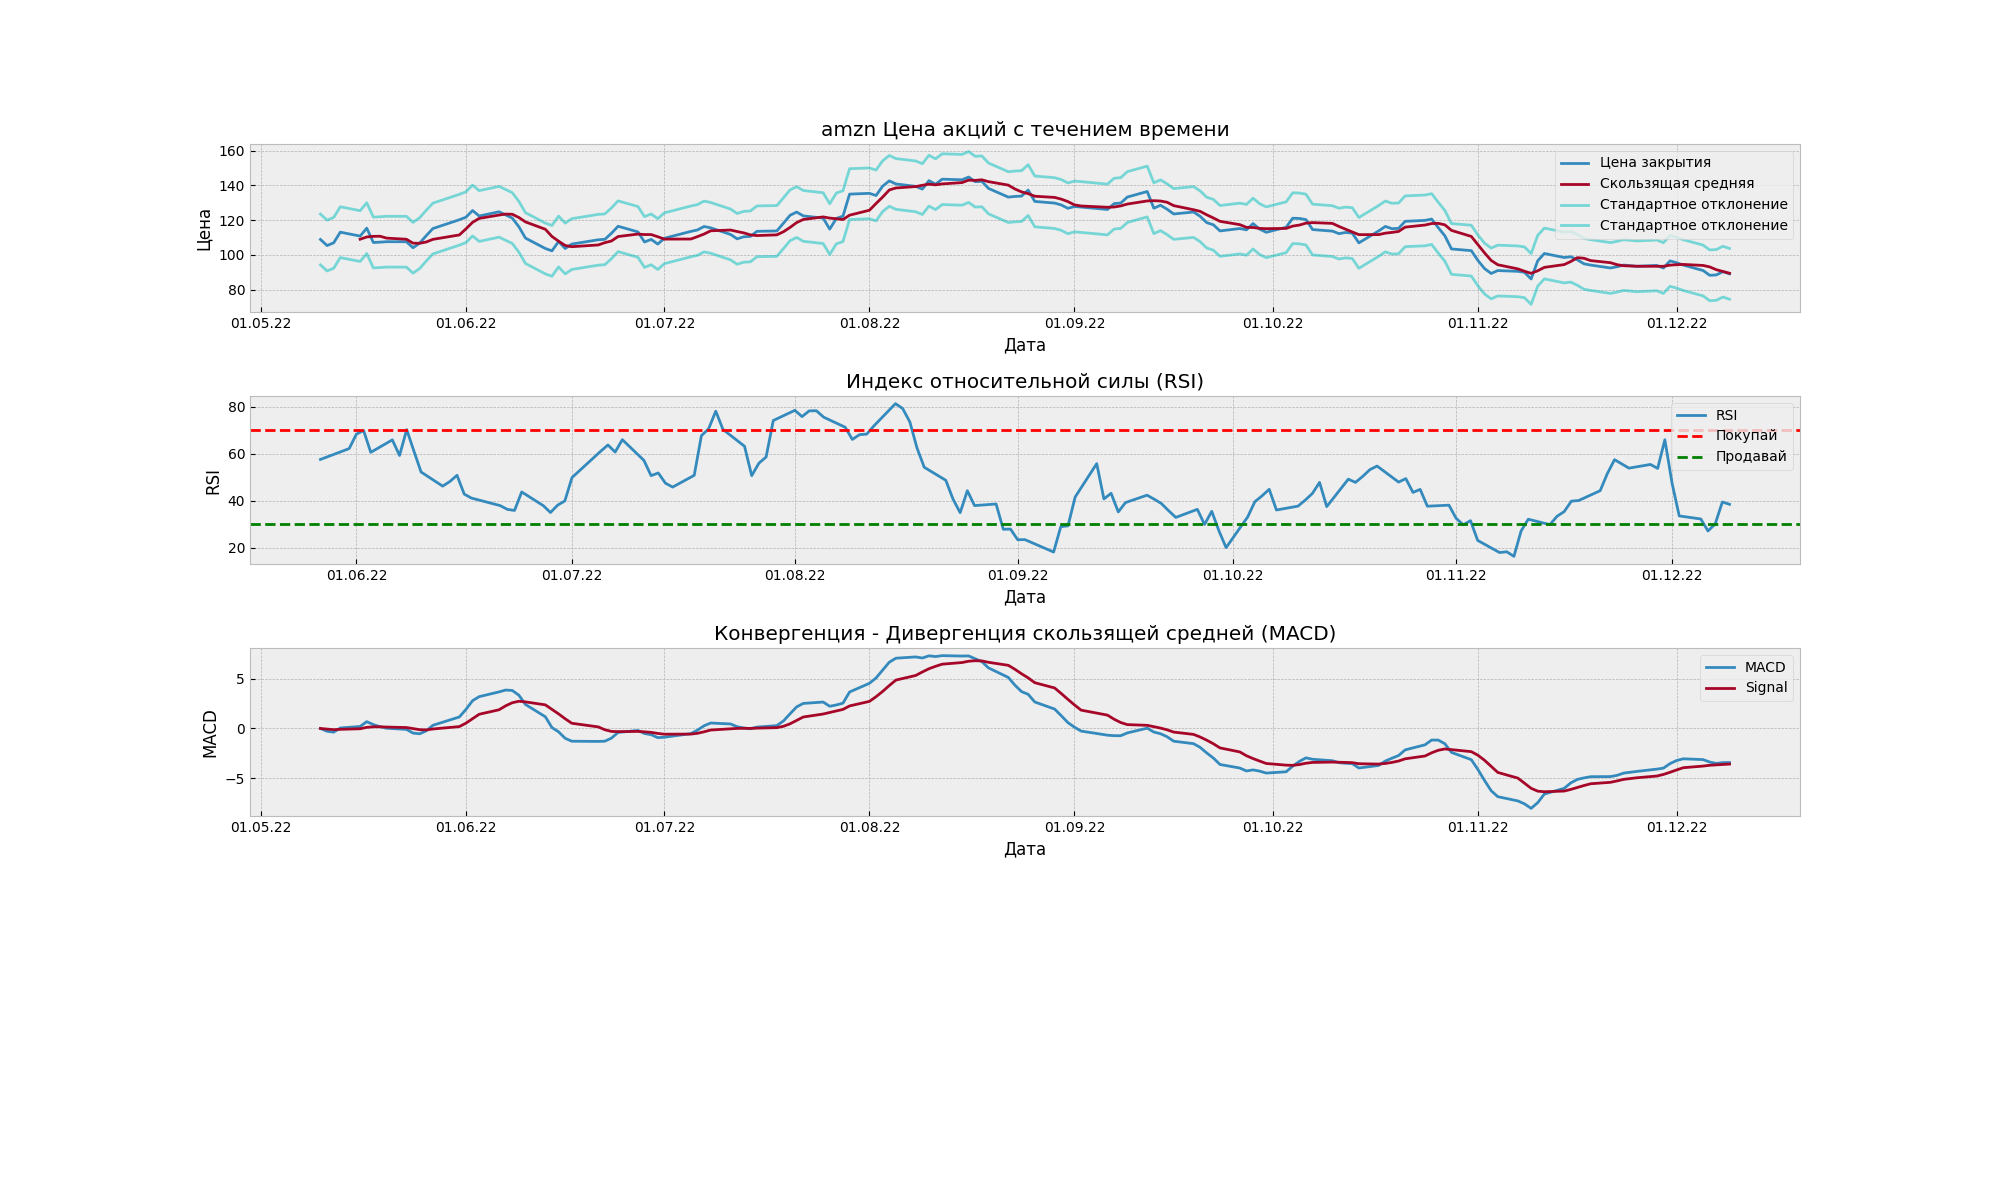
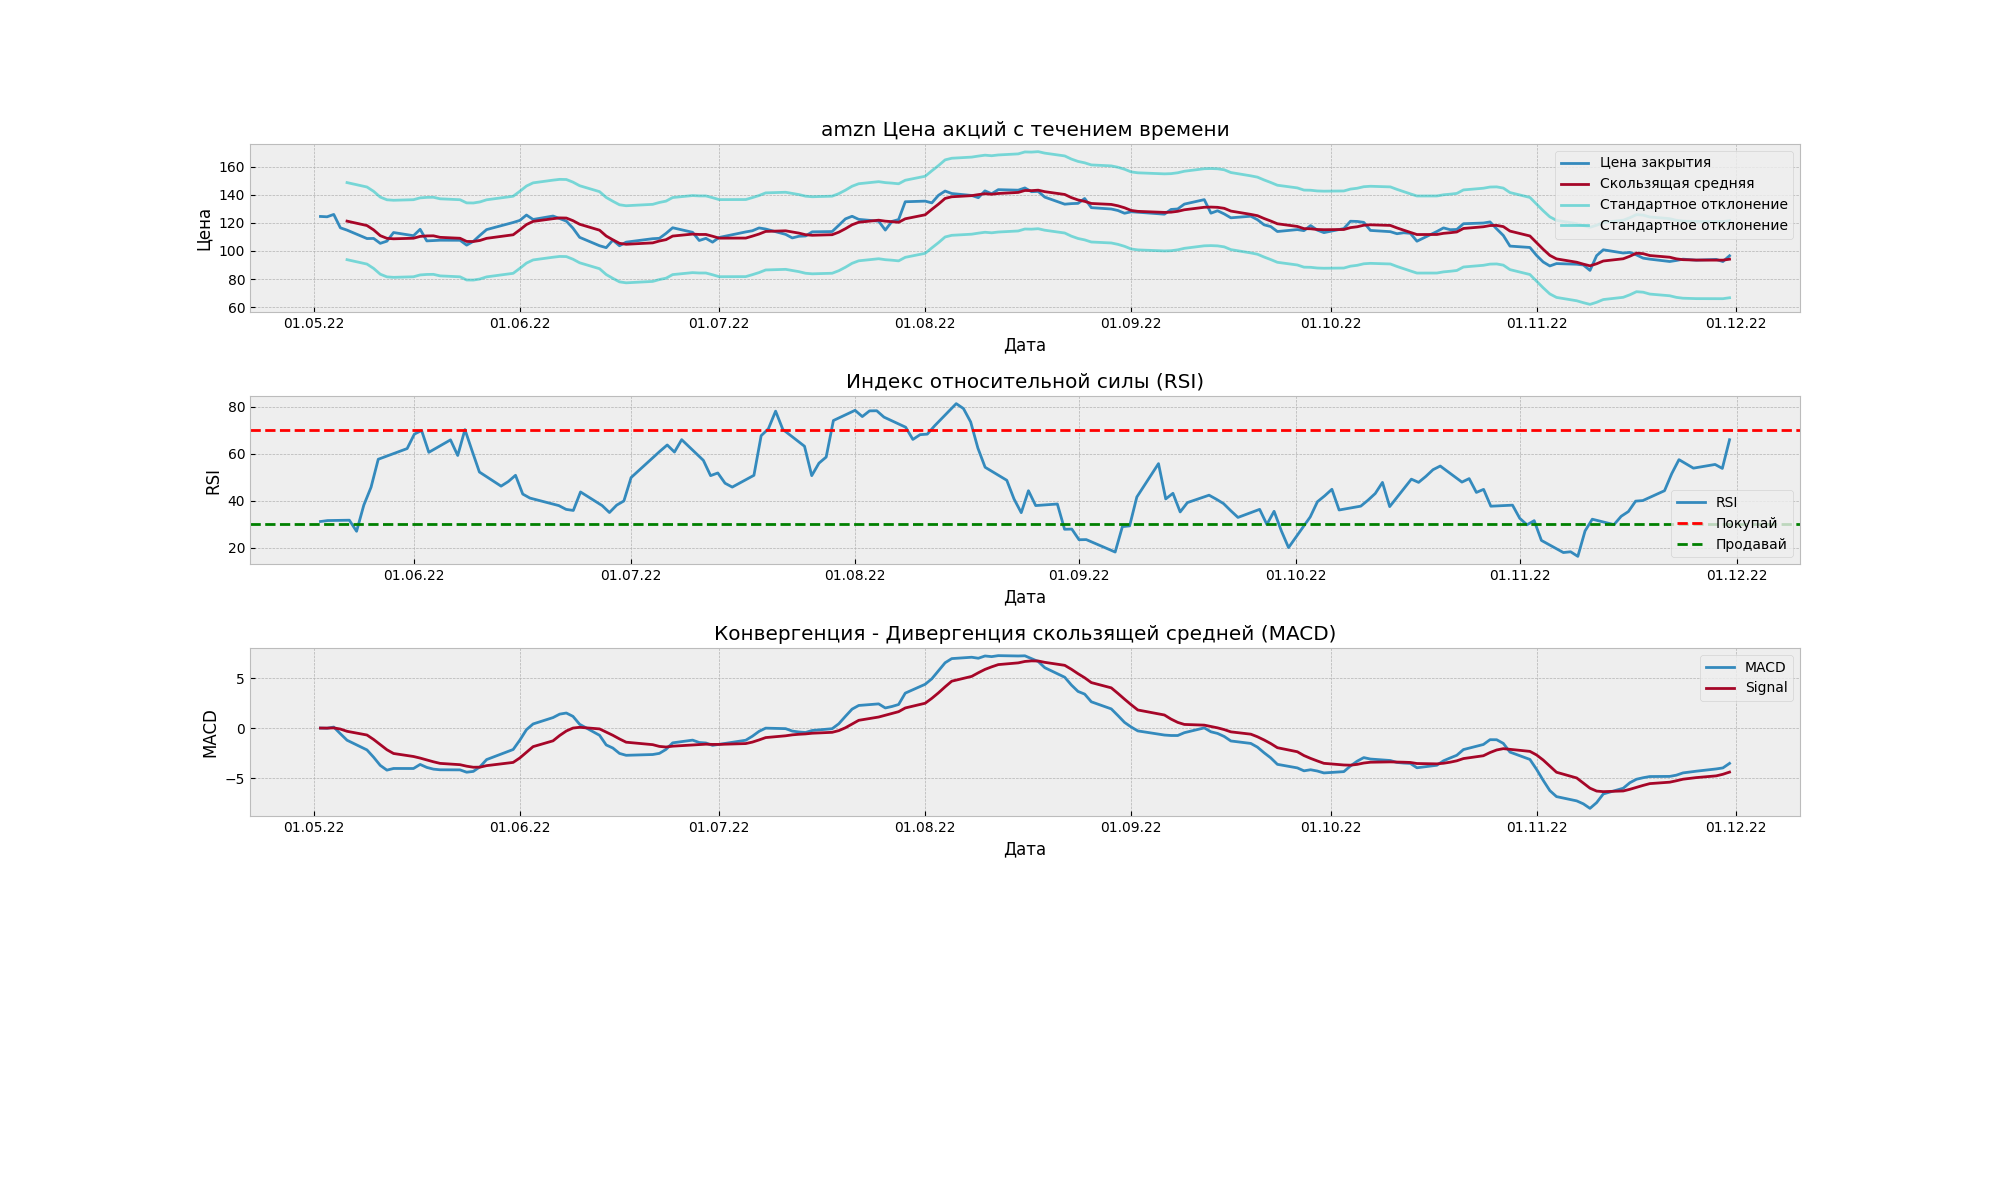
добавление файлов 27.12.24

diff --git a/index.html b/index.html
@@ -18,10 +18,10 @@
     </script>
   </head>
   <body>
-    <div id="ea745f16-942c-45f2-843c-7b35445792e6" data-root-id="p1001" style="display: contents;"></div>
+    <div id="ff43ecc9-562a-4164-9391-a66687628616" data-root-id="p1001" style="display: contents;"></div>
   
-    <script type="application/json" id="a84c8474-4a41-4f71-818e-c7c245c64690">
[1 lines of base64/hex data omitted]
+    <script type="application/json" id="e3393a9a-e430-47dd-a0e8-fce0566be970">
[1 lines of base64/hex data omitted]
     </script>
     <script type="text/javascript">
       (function() {
@@ -29,8 +29,8 @@
           Bokeh.safely(function() {
             (function(root) {
               function embed_document(root) {
-              const docs_json = document.getElementById('a84c8474-4a41-4f71-818e-c7c245c64690').textContent;
-              const render_items = [{"docid":"a92da5fd-110a-4cde-8656-d15376ff3102","roots":{"p1001":"ea745f16-942c-45f2-843c-7b35445792e6"},"root_ids":["p1001"]}];
+              const docs_json = document.getElementById('e3393a9a-e430-47dd-a0e8-fce0566be970').textContent;
+              const render_items = [{"docid":"ed178027-1ab1-4634-a019-655c400b47c8","roots":{"p1001":"ff43ecc9-562a-4164-9391-a66687628616"},"root_ids":["p1001"]}];
               root.Bokeh.embed.embed_items(docs_json, render_items);
               }
               if (root.Bokeh !== undefined) {

diff --git a/data_plotting.py b/data_plotting.py
@@ -21,9 +21,9 @@ def create_and_save_plot(data, ticker, period, filename=None, style='style'):
             # полученным датам
             plt.plot(dates, data['Moving_Average'].values, alpha=1, label='Скользящая средняя')  # создаём график
             # временного ряда со скользящим средним
-            plt.plot(dates, data['Close'] - data['std_deviation'], data['Close'] + data['std_deviation'], color='c', alpha=0.5,
-                     label='Стандартное отклонение')  # создаём график стандартного отклонения
-
+            plt.plot(dates, data['Moving_Average'] - 2 * data['std_deviation'], data['Moving_Average'] +
+                     2 * data['std_deviation'], color='c', alpha=0.5, label='Стандартное отклонение')
+            # создаём полосы Боллинджера (график стандартного отклонения)
         else:
             print("Информация о дате отсутствует или не имеет распознаваемого формата.")
             return
@@ -34,8 +34,8 @@ def create_and_save_plot(data, ticker, period, filename=None, style='style'):
             # формат datetime
         plt.plot(data['Date'], data['Close'], alpha=1, label='Цена закрытия')
         plt.plot(data['Date'], data['Moving_Average'], alpha=1, label='Скользящая средняя')
-        plt.plot(data['Date'], data['Close'] - data['std_deviation'], data['Close'] + data['std_deviation'], color='c', alpha=0.5,
-                 label='Стандартное отклонение')
+        plt.plot(data['Date'], data['Moving_Average'] - 2 * data['std_deviation'], data['Moving_Average'] +
+                 2 * data['std_deviation'], color='c', alpha=0.5, label='Стандартное отклонение')
 
     plt.gca().xaxis.set_major_formatter(mdates.DateFormatter("%d.%m.%y"))  # меняем формат даты по оси Х на ДД.ММ.ГГ
     plt.title(f"{ticker} Цена акций с течением времени")  # назначаем название графика
